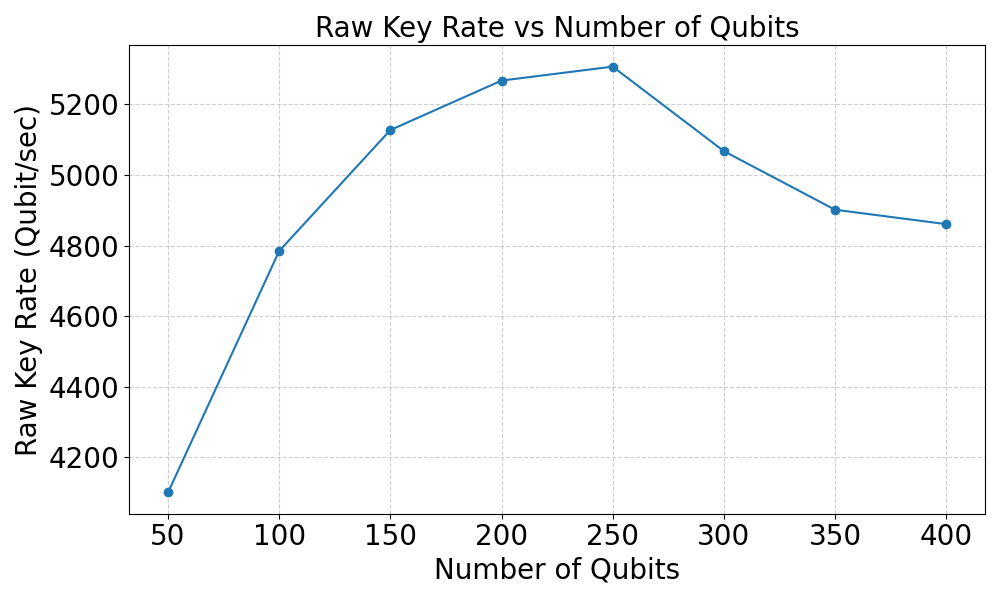
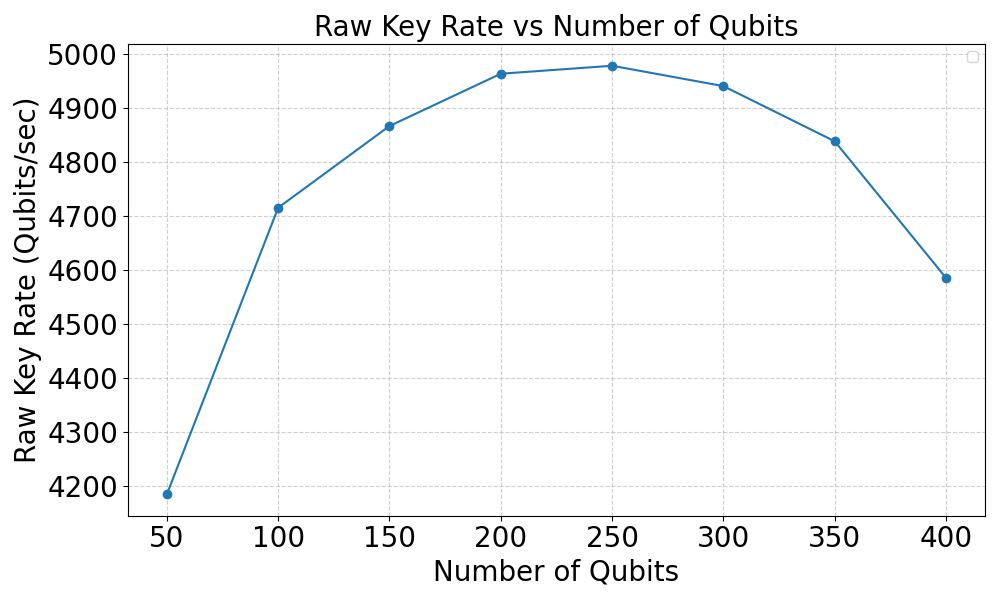
WIP:simulate raw key rate

diff --git a/BB84/rawkey.py b/BB84/rawkey.py
@@ -1,0 +1,25 @@
+import matplotlib.pyplot as plt
+import os
+
+# データの定義
+num_qubits = [50, 100, 150, 200, 250, 300, 350, 400]
+raw_key_rate = [4185.15, 4715.18, 4866.37, 4963.07, 4977.82, 4940.16, 4838.11, 4585.40]
+
+# プロット
+plt.figure(figsize=(10, 6))
+plt.plot(num_qubits, raw_key_rate, marker='o', linestyle='-')
+
+# ラベルとタイトル
+plt.xlabel('Number of Qubits', fontsize=20)
+plt.ylabel('Raw Key Rate (Qubits/sec)', fontsize=20)
+plt.title('Raw Key Rate vs Number of Qubits', fontsize=20)
+plt.xticks(fontsize=20)
+plt.yticks(fontsize=20)
+plt.grid(True, linestyle='--', alpha=0.6)
+plt.legend()
+plt.tight_layout()
+output_path = os.path.join(os.path.dirname(__file__), "raw_key_rate_mac.png")
+plt.savefig(output_path)
+print(f"✅ Saved as: {output_path}")
+
+plt.show()

diff --git a/BB84/bb84_rawkeyrate.py b/BB84/bb84_rawkeyrate.py
@@ -245,3 +245,14 @@ if __name__ == '__main__':
 # Max Avg Raw key rate: 5307.12 Qubit/sec at 250 qubits
 
 #=============Raw kew rate on Mac==================#
+# No. of Qubits: 50: 4185.15 Qubit/sec (avg over 100)
+# No. of Qubits: 100: 4715.18 Qubit/sec (avg over 100)
+# No. of Qubits: 150: 4866.37 Qubit/sec (avg over 100)
+# No. of Qubits: 200: 4963.07 Qubit/sec (avg over 100)
+# No. of Qubits: 250: 4977.82 Qubit/sec (avg over 100)
+# No. of Qubits: 300: 4940.16 Qubit/sec (avg over 100)
+# No. of Qubits: 350: 4838.11 Qubit/sec (avg over 100)
+# No. of Qubits: 400: 4585.40 Qubit/sec (avg over 100)
+
+# Max Avg Raw key rate: 4977.82 Qubit/sec at 250 qubits
+# ✅ Saved as: /Users/yudai/dev/uni_study/master/QKD-Research/BB84/raw_key_rate_mac.png
